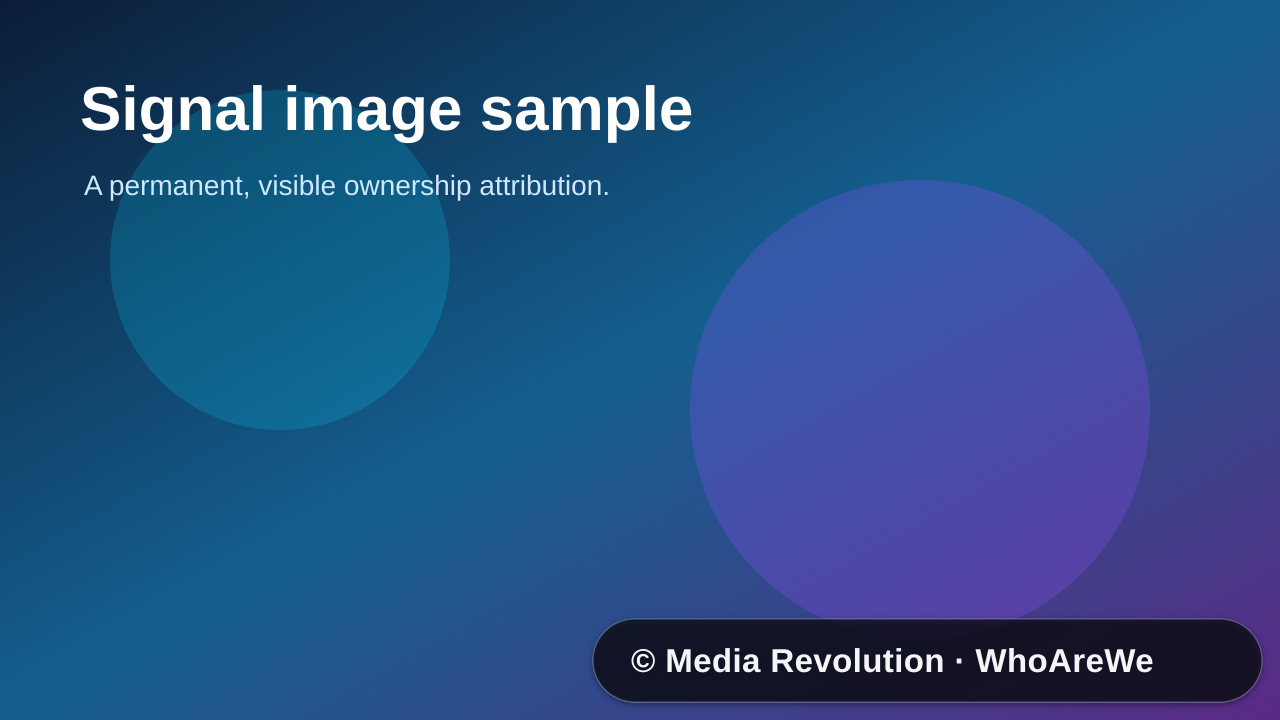
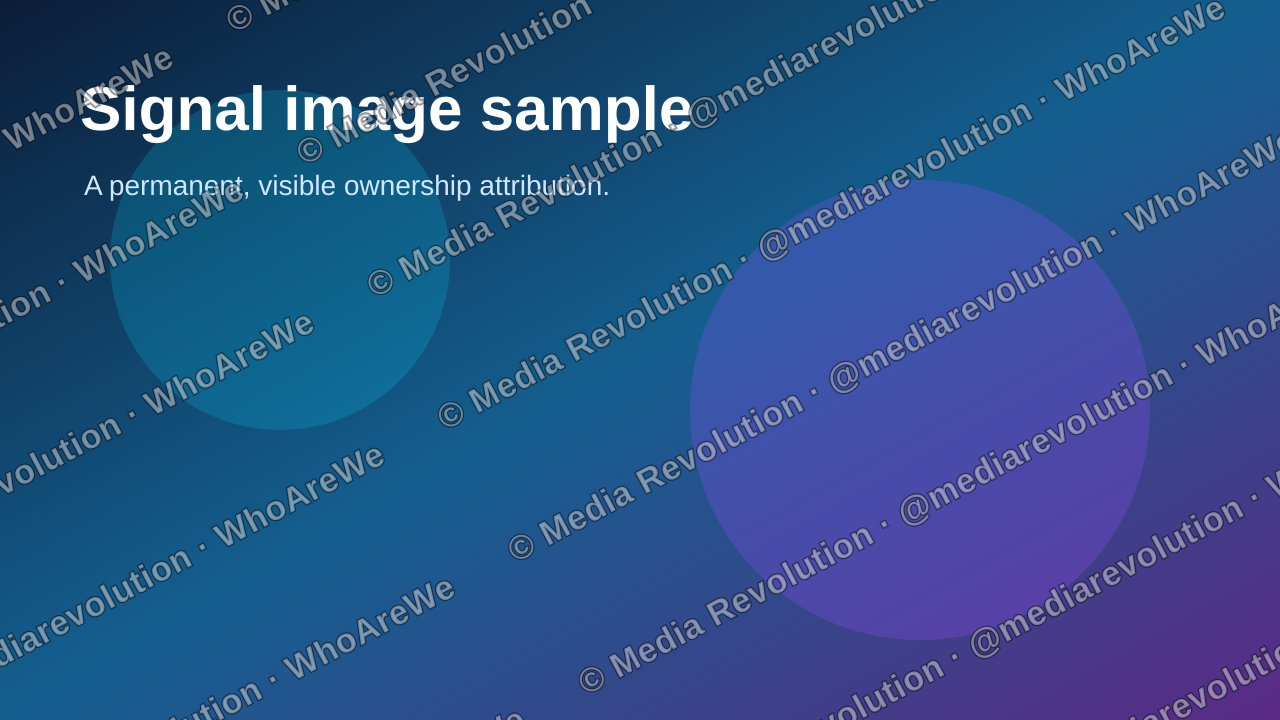
Checkpoint: Replaces the corner-only Signal image mark with a repeated, rotated full-image ownership watermark containing each Signal owner’s display name and Portal handle. Normalizes EXIF phone-image dimensions before compositing, backfills the three existing Signal images into new protected stora

diff --git a/server/imageWatermark.ts b/server/imageWatermark.ts
@@ -14,15 +14,23 @@ function escapeSvgText(value: string) {
 
 function watermarkSvg(label: string, width: number, height: number) {
   const safeLabel = escapeSvgText(label.slice(0, 96));
-  const fontSize = Math.max(13, Math.min(34, Math.round(width * 0.026)));
-  const paddingX = Math.round(fontSize * 1.15);
-  const paddingY = Math.round(fontSize * 0.75);
-  const barHeight = fontSize + paddingY * 2;
-  const labelWidth = Math.min(width - 24, Math.max(180, Math.round(safeLabel.length * fontSize * 0.62 + paddingX * 2)));
-  const x = Math.max(12, width - labelWidth - 18);
-  const y = Math.max(12, height - barHeight - 18);
+  const shortSide = Math.min(width, height);
+  const fontSize = Math.max(17, Math.min(44, Math.round(shortSide * 0.047)));
+  const lineGap = Math.max(92, Math.round(fontSize * 4.4));
+  const wordGap = Math.max(260, Math.round(fontSize * Math.min(28, safeLabel.length * 0.68 + 5)));
+  const extent = Math.ceil(Math.hypot(width, height));
+  const textNodes: string[] = [];
 
-  return Buffer.from(`<svg width="${width}" height="${height}" viewBox="0 0 ${width} ${height}" xmlns="http://www.w3.org/2000/svg"><defs><filter id="shadow" x="-20%" y="-50%" width="140%" height="200%"><feDropShadow dx="0" dy="2" stdDeviation="3" flood-color="#000000" flood-opacity="0.6"/></filter></defs><g filter="url(#shadow)"><rect x="${x}" y="${y}" width="${labelWidth}" height="${barHeight}" rx="${Math.round(barHeight / 2)}" fill="#07101f" fill-opacity="0.75" stroke="#ffffff" stroke-opacity="0.25"/><text x="${x + paddingX}" y="${y + Math.round(barHeight / 2 + fontSize * 0.36)}" fill="#ffffff" fill-opacity="0.96" font-family="Arial, Helvetica, sans-serif" font-size="${fontSize}" font-weight="700" letter-spacing="0.4">${safeLabel}</text></g></svg>`);
+  // The rotated grid deliberately extends beyond every edge. A single corner
+  // badge is easy to crop; repeated text keeps the owner attribution present
+  // in ordinary mobile saves, desktop downloads, and screenshots of any area.
+  for (let y = -extent; y <= height + extent; y += lineGap) {
+    for (let x = -extent; x <= width + extent; x += wordGap) {
+      textNodes.push(`<text x="${x}" y="${y}" fill="#ffffff" fill-opacity="0.42" stroke="#050912" stroke-opacity="0.48" stroke-width="2.4" paint-order="stroke" font-family="Arial, Helvetica, sans-serif" font-size="${fontSize}" font-weight="700" letter-spacing="0.7">${safeLabel}</text>`);
+    }
+  }
+
+  return Buffer.from(`<svg width="${width}" height="${height}" viewBox="0 0 ${width} ${height}" xmlns="http://www.w3.org/2000/svg"><g transform="rotate(-28 ${Math.round(width / 2)} ${Math.round(height / 2)})">${textNodes.join("")}</g></svg>`);
 }
 
 /**
@@ -33,22 +41,24 @@ export async function watermarkSignalImage(
   input: Buffer,
   mimeType: "image/jpeg" | "image/png" | "image/webp",
   ownerName: string,
+  ownerUsername?: string,
 ) {
-  const source = sharp(input, { failOn: "error", limitInputPixels: 40_000_000 }).rotate();
-  const metadata = await source.metadata();
-  const width = metadata.width || 1200;
-  const height = metadata.height || 675;
-  const scale = Math.min(1, MAX_SIDE / width, MAX_SIDE / height);
-  const outputWidth = Math.max(1, Math.round(width * scale));
-  const outputHeight = Math.max(1, Math.round(height * scale));
-  const label = `© ${ownerName} · WhoAreWe`;
-  const pipeline = source
+  // Rotate and resize first, then read the normalized dimensions. EXIF rotation
+  // can swap width and height, and the SVG composite must exactly match the
+  // final raster bounds on every phone-originated image.
+  const normalized = await sharp(input, { failOn: "error", limitInputPixels: 40_000_000 })
+    .rotate()
     .resize({ width: MAX_SIDE, height: MAX_SIDE, fit: "inside", withoutEnlargement: true })
-    .composite([{ input: watermarkSvg(label, outputWidth, outputHeight), top: 0, left: 0 }]);
+    .toBuffer();
+  const metadata = await sharp(normalized).metadata();
+  const outputWidth = metadata.width || 1200;
+  const outputHeight = metadata.height || 675;
+  const label = `© ${ownerName}${ownerUsername ? ` · @${ownerUsername}` : ""} · WhoAreWe`;
+  const pipeline = sharp(normalized).composite([{ input: watermarkSvg(label, outputWidth, outputHeight), top: 0, left: 0 }]);
 
   if (mimeType === "image/png") return pipeline.png({ compressionLevel: 9 }).toBuffer();
   if (mimeType === "image/webp") return pipeline.webp({ quality: 90 }).toBuffer();
   return pipeline.jpeg({ quality: 90, mozjpeg: true }).toBuffer();
 }
 
-export { escapeSvgText };
+export { escapeSvgText, watermarkSvg };

diff --git a/scripts-backfill-signal-watermarks.ts b/scripts-backfill-signal-watermarks.ts
@@ -1,0 +1,56 @@
+import crypto from "node:crypto";
+import { and, eq } from "drizzle-orm";
+import { profiles, signalMedia, signals } from "./drizzle/schema";
+import { getDb } from "./server/db";
+import { watermarkSignalImage } from "./server/imageWatermark";
+import { storageGetSignedUrl, storagePut } from "./server/storage";
+
+const mimeForUrl = (url: string): "image/jpeg" | "image/png" | "image/webp" => {
+  if (/\.png(?:$|\?)/i.test(url)) return "image/png";
+  if (/\.webp(?:$|\?)/i.test(url)) return "image/webp";
+  return "image/jpeg";
+};
+
+const extensionForMime = (mime: ReturnType<typeof mimeForUrl>) => ({
+  "image/jpeg": "jpg",
+  "image/png": "png",
+  "image/webp": "webp",
+}[mime]);
+
+const db = await getDb();
+if (!db) throw new Error("Database is unavailable");
+
+const rows = await db
+  .select({ media: signalMedia, signal: signals, profile: profiles })
+  .from(signalMedia)
+  .innerJoin(signals, eq(signalMedia.signalId, signals.id))
+  .innerJoin(profiles, eq(signals.profileId, profiles.id));
+
+let updated = 0;
+for (const row of rows) {
+  const oldUrl = row.media.storageUrl;
+  if (!oldUrl.startsWith("/manus-storage/")) {
+    console.warn(`Skipping Signal media ${row.media.id}: not managed storage`);
+    continue;
+  }
+  const mimeType = mimeForUrl(oldUrl);
+  const signedUrl = await storageGetSignedUrl(oldUrl.slice("/manus-storage/".length));
+  const response = await fetch(signedUrl);
+  if (!response.ok) throw new Error(`Could not retrieve Signal media ${row.media.id} (${response.status})`);
+  const original = Buffer.from(await response.arrayBuffer());
+  const protectedImage = await watermarkSignalImage(original, mimeType, row.profile.displayName, row.profile.username);
+  const filename = `signals/${row.profile.ownerUserId}/${row.profile.id}/protected-${crypto.randomUUID()}.${extensionForMime(mimeType)}`;
+  const stored = await storagePut(filename, protectedImage, mimeType);
+
+  await db.transaction(async (tx) => {
+    await tx.update(signalMedia).set({ storageUrl: stored.url }).where(eq(signalMedia.id, row.media.id));
+    await tx.update(signals).set({
+      imageUrl: row.signal.imageUrl === oldUrl ? stored.url : row.signal.imageUrl,
+      seoImageUrl: row.signal.seoImageUrl === oldUrl ? stored.url : row.signal.seoImageUrl,
+    }).where(and(eq(signals.id, row.signal.id), eq(signals.profileId, row.profile.id)));
+  });
+  updated += 1;
+  console.log(`Protected existing Signal media ${row.media.id}`);
+}
+
+console.log(`Completed full-image watermark backfill for ${updated} Signal asset(s).`);

diff --git a/server/imageWatermark.test.ts b/server/imageWatermark.test.ts
@@ -1,26 +1,38 @@
 import sharp from "sharp";
 import { describe, expect, it } from "vitest";
-import { escapeSvgText, watermarkSignalImage } from "./imageWatermark";
+import { escapeSvgText, watermarkSignalImage, watermarkSvg } from "./imageWatermark";
 
 describe("Signal image watermark helpers", () => {
   it("escapes owner labels before embedding them in watermark SVG", () => {
     expect(escapeSvgText(`Sam & <Co> "works"`)).toBe("Sam &amp; &lt;Co&gt; &quot;works&quot;");
   });
 
-  it("bakes a visible ownership mark into output PNG bytes", async () => {
+  it("repeats the owner identity across the full image watermark grid", () => {
+    const svg = watermarkSvg("© Media Revolution · @mediarevolution · WhoAreWe", 1280, 720).toString();
+    const occurrences = svg.match(/© Media Revolution · @mediarevolution · WhoAreWe/g) ?? [];
+
+    expect(occurrences.length).toBeGreaterThan(40);
+    expect(svg).toContain('transform="rotate(-28 640 360)"');
+  });
+
+  it("bakes visible repeated ownership text into output PNG bytes", async () => {
     const source = await sharp({
       create: { width: 640, height: 360, channels: 3, background: { r: 255, g: 255, b: 255 } },
     }).png().toBuffer();
-    const protectedImage = await watermarkSignalImage(source, "image/png", "Media Revolution");
+    const protectedImage = await watermarkSignalImage(source, "image/png", "Media Revolution", "mediarevolution");
     const { data, info } = await sharp(protectedImage).raw().toBuffer({ resolveWithObject: true });
-    const pixel = (310 * info.width + 310) * info.channels;
+    let darkSamples = 0;
+
+    for (let y = 0; y < info.height; y += 4) {
+      for (let x = 0; x < info.width; x += 4) {
+        const pixel = (y * info.width + x) * info.channels;
+        if (data[pixel] < 180 && data[pixel + 1] < 180 && data[pixel + 2] < 180) darkSamples += 1;
+      }
+    }
 
     expect(protectedImage.equals(source)).toBe(false);
     expect(info.width).toBe(640);
     expect(info.height).toBe(360);
-    // This coordinate falls within the dark, bottom-right attribution pill.
-    expect(data[pixel]).toBeLessThan(80);
-    expect(data[pixel + 1]).toBeLessThan(80);
-    expect(data[pixel + 2]).toBeLessThan(80);
+    expect(darkSamples).toBeGreaterThan(450);
   });
 });

diff --git a/scripts-render-watermark-sample.ts b/scripts-render-watermark-sample.ts
@@ -5,5 +5,5 @@ const width = 1280;
 const height = 720;
 const input = Buffer.from(`<svg width="${width}" height="${height}" xmlns="http://www.w3.org/2000/svg"><defs><linearGradient id="bg" x1="0" x2="1" y1="0" y2="1"><stop stop-color="#0b1d38"/><stop offset="0.5" stop-color="#145f8f"/><stop offset="1" stop-color="#5b2a86"/></linearGradient></defs><rect width="100%" height="100%" fill="url(#bg)"/><circle cx="280" cy="260" r="170" fill="#00d8ff" fill-opacity=".18"/><circle cx="920" cy="410" r="230" fill="#9b4dff" fill-opacity=".25"/><text x="80" y="130" fill="white" font-family="Arial" font-size="62" font-weight="700">Signal image sample</text><text x="84" y="195" fill="#cfe8ff" font-family="Arial" font-size="28">A permanent, visible ownership attribution.</text></svg>`);
 const original = await sharp(input).png().toBuffer();
-const protectedImage = await watermarkSignalImage(original, "image/png", "Media Revolution");
+const protectedImage = await watermarkSignalImage(original, "image/png", "Media Revolution", "mediarevolution");
 await sharp(protectedImage).png().toFile(".manus-logs/watermarked-signal-sample.png");

diff --git a/server/signals.ts b/server/signals.ts
@@ -26,7 +26,7 @@ export const signalsRouter = router({
     if (!image.length || image.length > 8 * 1024 * 1024) throw new TRPCError({ code: "PAYLOAD_TOO_LARGE", message: "Choose an image smaller than 8 MB" });
     let protectedImage: Buffer;
     try {
-      protectedImage = await watermarkSignalImage(image, input.mimeType, profile.displayName);
+      protectedImage = await watermarkSignalImage(image, input.mimeType, profile.displayName, profile.username);
     } catch {
       throw new TRPCError({ code: "BAD_REQUEST", message: "This image could not be processed. Use a valid JPG, PNG, or WebP file." });
     }

diff --git a/.manus-logs/signal-seo-visual-check.md b/.manus-logs/signal-seo-visual-check.md
@@ -12,7 +12,11 @@ The project screenshot renderer captured the owner workspace at `/signals/1`, sh
 
 ## Watermark verification
 
-A server-generated 1280×720 PNG sample passed through the same Sharp transform as Signal uploads. The rendered image displays a high-contrast, bottom-right pill reading `© Media Revolution · WhoAreWe`. A unit test also samples pixels in the attribution pill to confirm the visible watermark is baked into the output image bytes, rather than supplied only by CSS or a browser overlay.
+A server-generated 1280×720 PNG sample passed through the same Sharp transform as Signal uploads. The rendered image displays repeated, high-contrast owner attribution across the entire image. Unit tests inspect the repeated SVG grid and transformed image pixels to confirm the watermark is baked into the output image bytes, rather than supplied only by CSS or a browser overlay.
+
+### Full-image ownership update
+
+The corner-only attribution has been replaced by a rotated, repeated grid across the entire image. Each repeated mark contains the owner’s display name, Portal handle, and **WhoAreWe**, for example `© Media Revolution · @mediarevolution · WhoAreWe`. The normalized image dimensions are determined after EXIF rotation, so portrait images captured on a phone receive a correctly sized full-image overlay. A 390px mobile capture of the Media Revolution Portal confirms the repeated attribution remains visible in the Signal feed image. The three Signal images that existed before the initial watermark release were reprocessed, written to new managed-storage objects, and their database references updated.
 
 ## SEO and SSR verification
 

diff --git a/todo.md b/todo.md
@@ -3,7 +3,8 @@
 ## Completed release
 
 - [x] Added editable Signal SEO and share metadata, including a title, description, and featured-image selector that only permits media belonging to the same Signal.
-- [x] Watermarked uploaded JPG, PNG, and WebP Signal images at storage time using a permanent Sharp image transform.
+- [x] Watermarked uploaded JPG, PNG, and WebP Signal images at storage time using a permanent Sharp image transform, repeated across the full image with the owner display name and Portal handle.
+- [x] Reprocessed the three pre-release Signal images into new full-image-watermarked managed-storage objects and updated their Signal records.
 - [x] Built canonical, shareable Signal detail pages at `/{username}/signals/{signalId}`.
 - [x] Server-rendered the homepage, Discover, topic, public Portal, and public Signal routes, with safe browser-global guards for the public rendering path.
 - [x] Added route-specific title, description, canonical, OpenGraph, Twitter, JSON-LD, `robots.txt`, and public-only `sitemap.xml` output.
